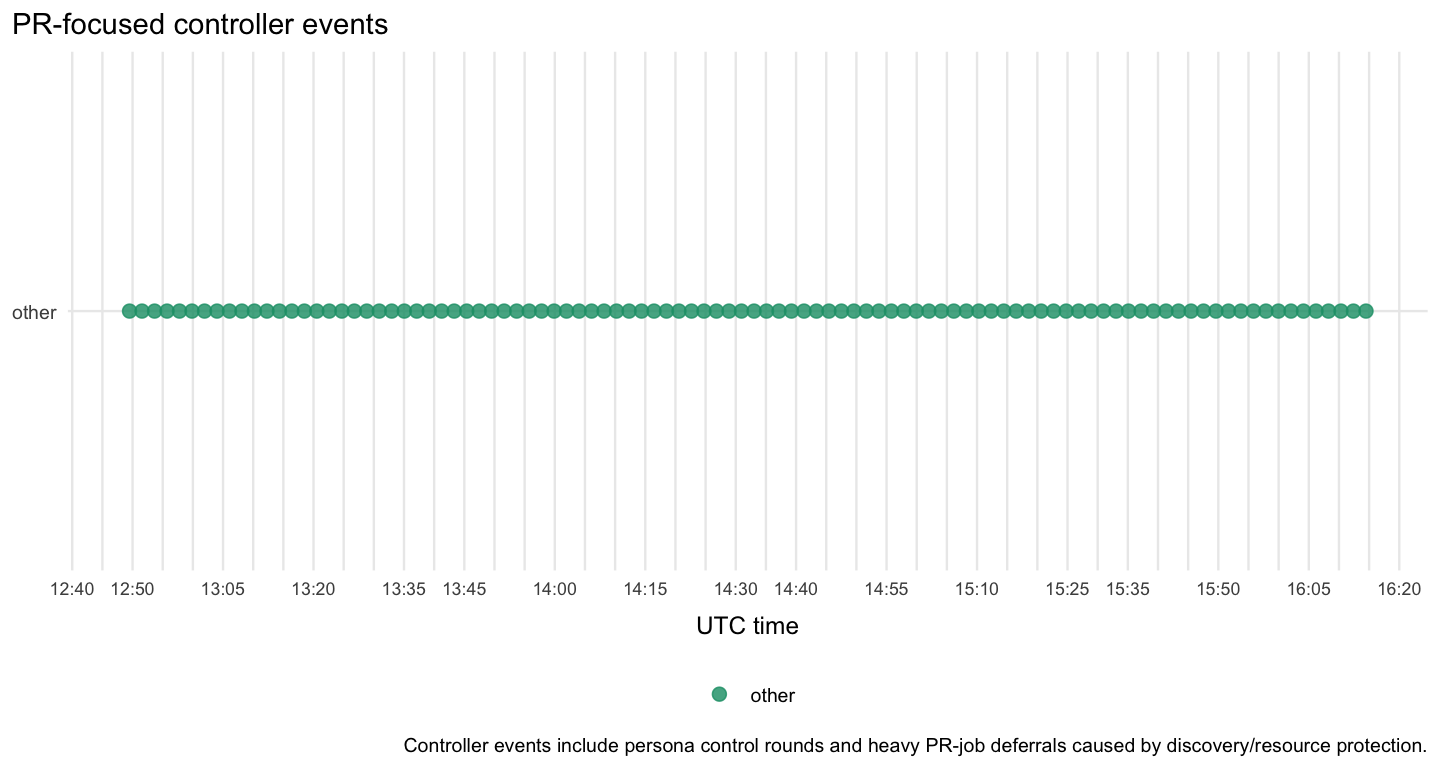
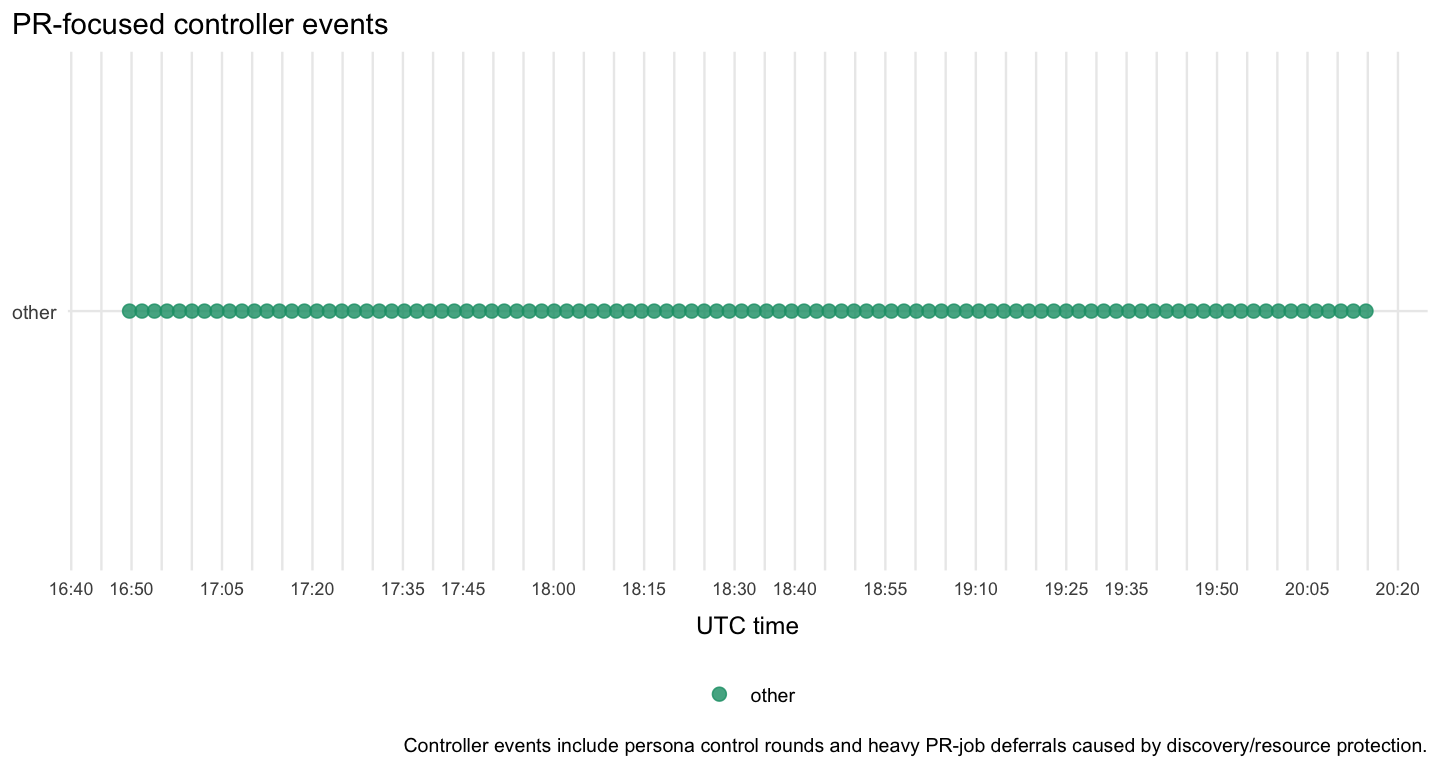
Refresh Jetstream fuzz trend report

diff --git a/docs/explanations/architecture/rtc-jetstream2-fuzz-trend-analysis-20260515.md b/docs/explanations/architecture/rtc-jetstream2-fuzz-trend-analysis-20260515.md
@@ -1,6 +1,6 @@
 # RTC Jetstream2 fuzz trend analysis
 
-Snapshot generated: `2026-07-13T16:16:28Z`
+Snapshot generated: `2026-07-13T20:18:07Z`
 
 This report summarizes the Jetstream2 RTC fuzzing, coverage-guidance,
 resource, and PR-progress logs. The refreshed CSVs and plots are committed
@@ -34,7 +34,7 @@ of product duplicate failures.
 
 The latest CPU/load telemetry sample has CPU utilization `8.7`, load1/load5/load15 `6.83`/`15.55`/`22.96`, and `64` logical cores.
 
-The latest disk sample is `2026-07-13T16:15:06Z`: root has `42.5GiB` free and is `70.1%` used; the data volume has `254.6GiB` free and is `92.8%` used.
+The latest disk sample is `2026-07-13T20:16:48Z`: root has `42.4GiB` free and is `70.1%` used; the data volume has `252.9GiB` free and is `92.9%` used.
 
 The latest graph-counted fuzzing mix is: `browser-e2e=24 lanes/17 groups; unit-property=1 lanes/1 groups; protocol-server=1 lanes/1 groups`.
 Browser/e2e remains the dominant live surface, with bounded lower-level and
